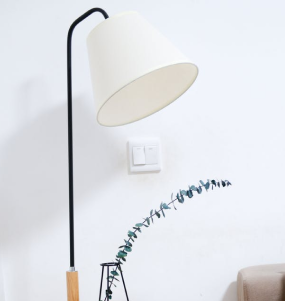
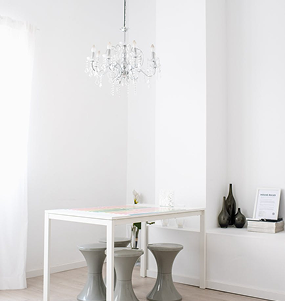
add datas file and handle show more section

diff --git a/src/Data/Data.js b/src/Data/Data.js
@@ -1,0 +1,167 @@
+const productsData = [
+  {
+    id: 1,
+    name: `Syltherine`,
+    price: "2.500.000",
+    desc: `Stylish cafe chair`,
+    image: `${import.meta.env.BASE_URL}all-images/products/Images.png`,
+    isDiscount: true,
+    isNew: false,
+  },
+  {
+    id: 2,
+    name: `Leviosa`,
+    price: "2.500.000",
+    desc: `Stylish cafe chair`,
+    image: `${import.meta.env.BASE_URL}all-images/products/Images (1).png`,
+    isDiscount: false,
+    isNew: true,
+  },
+  {
+    id: 3,
+    name: `Lolito`,
+    price: "7.000.000",
+    desc: `Luxury big sofa`,
+    image: `${import.meta.env.BASE_URL}all-images/products/image 3.png`,
+    isDiscount: false,
+    isNew: true,
+  },
+  {
+    id: 4,
+    name: `Respira`,
+    price: "500.000",
+    desc: `Outdoor bar table and stool`,
+    image: `${import.meta.env.BASE_URL}all-images/products/Images (2).png`,
+    isDiscount: false,
+    isNew: false,
+  },
+  {
+    id: 5,
+    name: `Grifo`,
+    price: "1.500.000",
+    desc: `Night lamp`,
+    image: `${import.meta.env.BASE_URL}all-images/products/Images (6).png`,
+    isDiscount: false,
+    isNew: false,
+  },
+  {
+    id: 6,
+    name: `Muggo`,
+    price: "150.000",
+    desc: `Small mug`,
+    image: `${import.meta.env.BASE_URL}all-images/products/Images (3).png`,
+    isDiscount: true,
+    isNew: false,
+  },
+  {
+    id: 7,
+    name: `Pingky`,
+    price: "7.000.000",
+    desc: `Cute bed set`,
+    image: `${import.meta.env.BASE_URL}all-images/products/Images (4).png`,
+    isDiscount: false,
+    isNew: true,
+  },
+  {
+    id: 8,
+    name: `Potty`,
+    price: "500.000",
+    desc: `Minimalist flower pot`,
+    image: `${import.meta.env.BASE_URL}all-images/products/Images (5).png`,
+    isDiscount: true,
+    isNew: false,
+  },
+  {
+    id: 9,
+    name: `Syltherine`,
+    price: "2.500.000",
+    desc: `Stylish cafe chair`,
+    image: `${import.meta.env.BASE_URL}all-images/products/Images.png`,
+    isDiscount: true,
+    isNew: false,
+  },
+  {
+    id: 10,
+    name: `Leviosa`,
+    price: "2.500.000",
+    desc: `Stylish cafe chair`,
+    image: `${import.meta.env.BASE_URL}all-images/products/Images (1).png`,
+    isDiscount: false,
+    isNew: true,
+  },
+  {
+    id: 11,
+    name: `Lolito`,
+    price: "7.000.000",
+    desc: `Luxury big sofa`,
+    image: `${import.meta.env.BASE_URL}all-images/products/image 3.png`,
+    isDiscount: false,
+    isNew: true,
+  },
+  {
+    id: 12,
+    name: `Respira`,
+    price: "500.000",
+    desc: `Outdoor bar table and stool`,
+    image: `${import.meta.env.BASE_URL}all-images/products/Images (2).png`,
+    isDiscount: false,
+    isNew: false,
+  },
+  {
+    id: 13,
+    name: `Grifo`,
+    price: "1.500.000",
+    desc: `Night lamp`,
+    image: `${import.meta.env.BASE_URL}all-images/products/Images (6).png`,
+    isDiscount: false,
+    isNew: false,
+  },
+  {
+    id: 14,
+    name: `Muggo`,
+    price: "150.000",
+    desc: `Small mug`,
+    image: `${import.meta.env.BASE_URL}all-images/products/Images (3).png`,
+    isDiscount: true,
+    isNew: false,
+  },
+  {
+    id: 15,
+    name: `Pingky`,
+    price: "7.000.000",
+    desc: `Cute bed set`,
+    image: `${import.meta.env.BASE_URL}all-images/products/Images (4).png`,
+    isDiscount: false,
+    isNew: true,
+  },
+  {
+    id: 16,
+    name: `Potty`,
+    price: "500.000",
+    desc: `Minimalist flower pot`,
+    image: `${import.meta.env.BASE_URL}all-images/products/Images (5).png`,
+    isDiscount: true,
+    isNew: false,
+  },
+  {
+    id: 17,
+    name: `Pingky`,
+    price: "7.000.000",
+    desc: `Cute bed set`,
+    image: `${import.meta.env.BASE_URL}all-images/products/Images (4).png`,
+    isDiscount: false,
+    isNew: true,
+  },
+  {
+    id: 18,
+    name: `Potty`,
+    price: "500.000",
+    desc: `Minimalist flower pot`,
+    image: `${import.meta.env.BASE_URL}all-images/products/Images (5).png`,
+    isDiscount: true,
+    isNew: false,
+  },
+  
+];
+
+export default productsData;

diff --git a/src/Components/ProductWrapper/ProductWrapper.jsx b/src/Components/ProductWrapper/ProductWrapper.jsx
@@ -1,16 +1,30 @@
+import { useState , useEffect } from "react";
 import ProductBox from "../ProductBox/ProductBox"
 import styles from "./ProductWrapper.module.css"
+import productsData from "../../Data/Data"
 export default function ProductWrapper() {
+  const [visibleCount , setVisibleCount] = useState(8)
+  const showMoreHandler = () => {
+     if (visibleCount >= productsData.length) {
+      setVisibleCount(0)  
+      console.log(visibleCount);
+      
+    }
+    setVisibleCount((prev) => prev + 8)
+  }
   return (
     <div className={`container ${styles.ProductWrapper_section}`}>
         <h2>Our Products</h2>
         <div className={styles.productboxs_wrapper}>
-            <ProductBox />
-            <ProductBox />
-            <ProductBox />
-            <ProductBox />
+          {productsData.slice(0,visibleCount).map((product) => (
+              <ProductBox key={product.id} product={product} />
+          ))}
         </div>
-        <button>Show More</button>
+        <button onClick={showMoreHandler}>
+          {
+            visibleCount >= productsData.length ? "Show less" : "Show More"
+          }
+        </button>
     </div>
   )
 }

diff --git a/src/Components/ProductBox/ProductBox.jsx b/src/Components/ProductBox/ProductBox.jsx
@@ -1,20 +1,24 @@
 import styles from "./ProductBox.module.css"
-export default function ProductBox() {
+export default function ProductBox({product}) {
   return (
     <div className={styles.productbox_wrapper}>
-        <img src="all-images/products/Images.png"/>
+        <img src={product.image}/>
         <div className={styles.productbox_details_wrapper}>
-          <span className={styles.productbox_details_title}>Syltherine</span>
-          <p>Stylish cafe chair</p>
+          <span className={styles.productbox_details_title}>{product.name}</span>
+          <p>{product.desc}</p>
           <div className={styles.productbox_price_wrapper}>
-              <span>Rp 2.500.000</span>
+              <span>Rp {product.price}</span>
               <s>Rp 2.500.000</s>
           </div>
         </div>
-        <div className={styles.discount}>
-          -30%
-        </div>
+        
 
+        {
+          product.isDiscount ? (<div className={styles.discount}>-30%</div>) : null
+        }
+        {
+          product.isNew ? (<div className={styles.new}>New</div>) : null
+        }
 
 
         {/* overlay */}

diff --git a/src/Components/ProductBox/ProductBox.module.css b/src/Components/ProductBox/ProductBox.module.css
@@ -44,6 +44,19 @@
     align-items: center;
     justify-content: center;
 }
+.new{
+    position: absolute;
+    top: 20px;
+    right: 20px;
+    width: 48px;
+    height: 48px;
+    border-radius: 100%;
+    background-color: #2EC1AC;
+    color: #fff;
+    display: flex;
+    align-items: center;
+    justify-content: center;
+}
 
 
 .overlay{

diff --git a/src/Components/Header/Header.jsx b/src/Components/Header/Header.jsx
@@ -11,7 +11,7 @@ export default function Header() {
             <ul>
                 <li>Home</li>
                 <li>
-                  <Link to={"/shop"}>Shop</Link>
+                  <Link to={"/Shop"}>Shop</Link>
                 </li>
                 <li>About</li>
                 <li>Contact</li>

diff --git a/src/Pages/Home/Home.jsx b/src/Pages/Home/Home.jsx
@@ -5,6 +5,7 @@ import Share from '../../Components/Share/Share'
 import Hero from '../../Components/Hero/Hero'
 
 export default function Home() {
+
   return (
     <>
         <Hero />